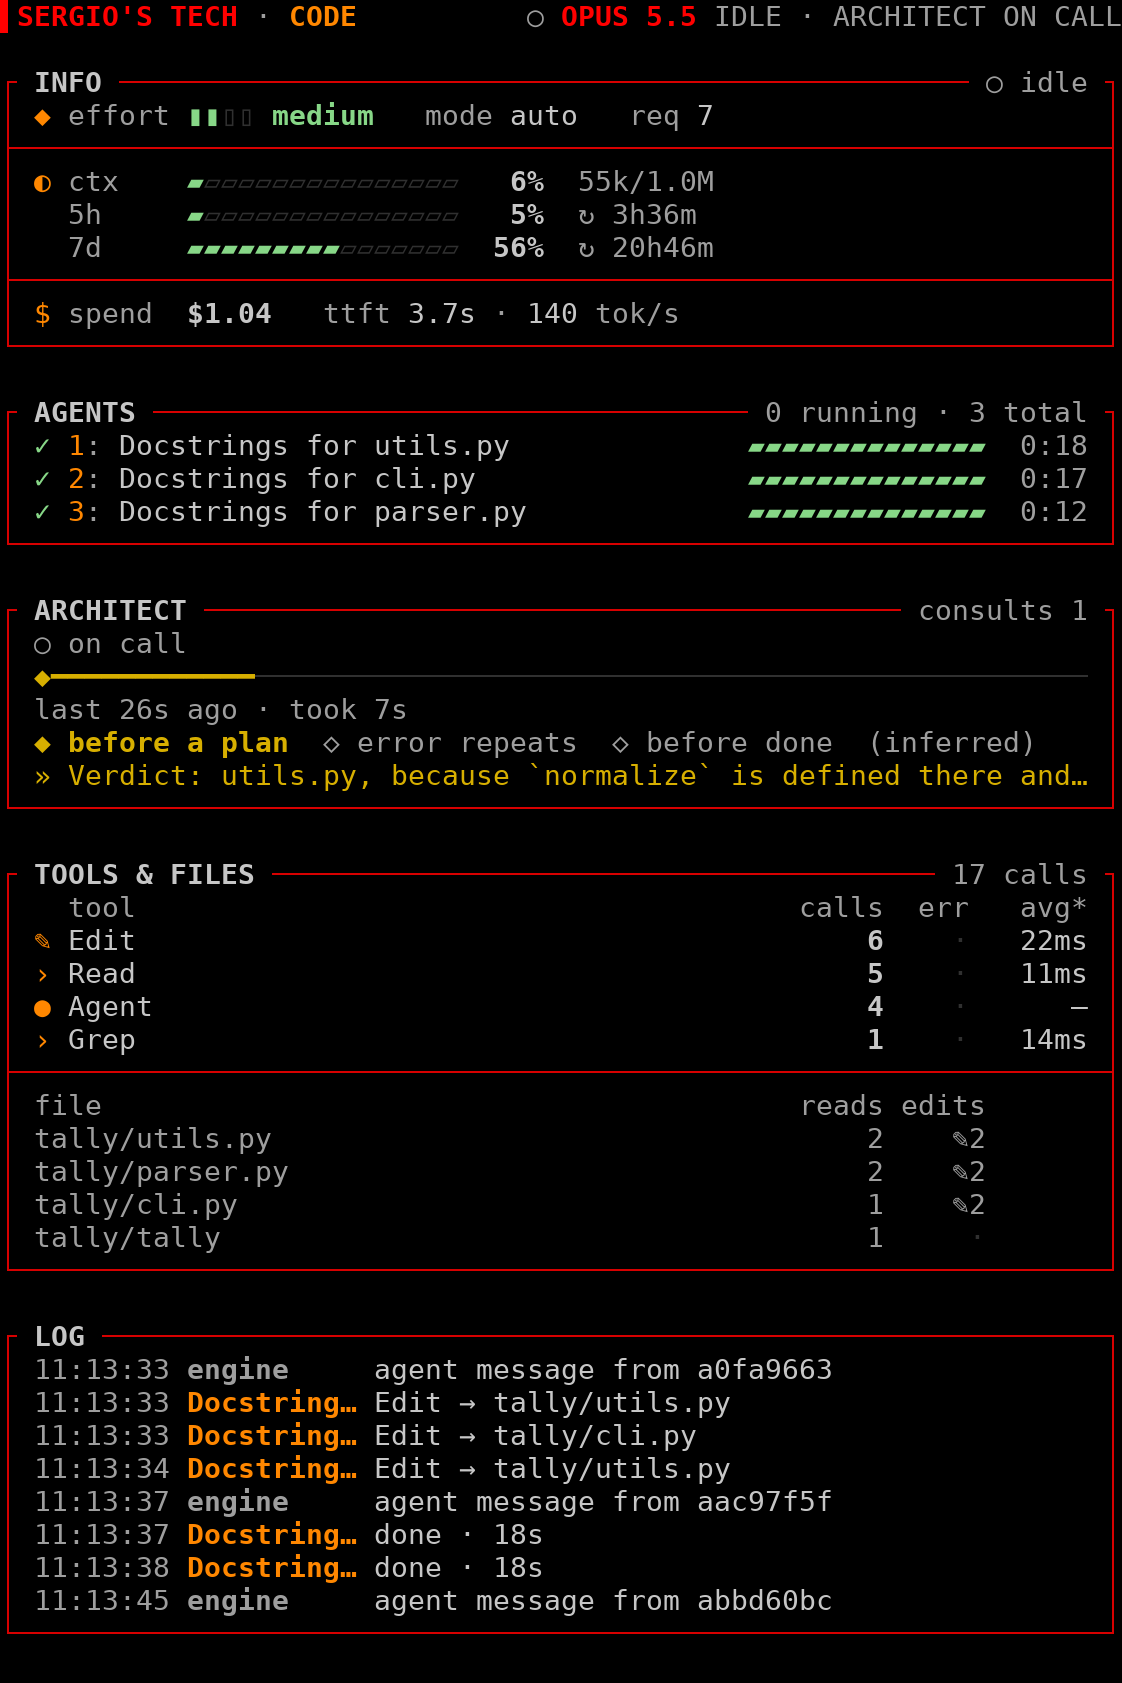
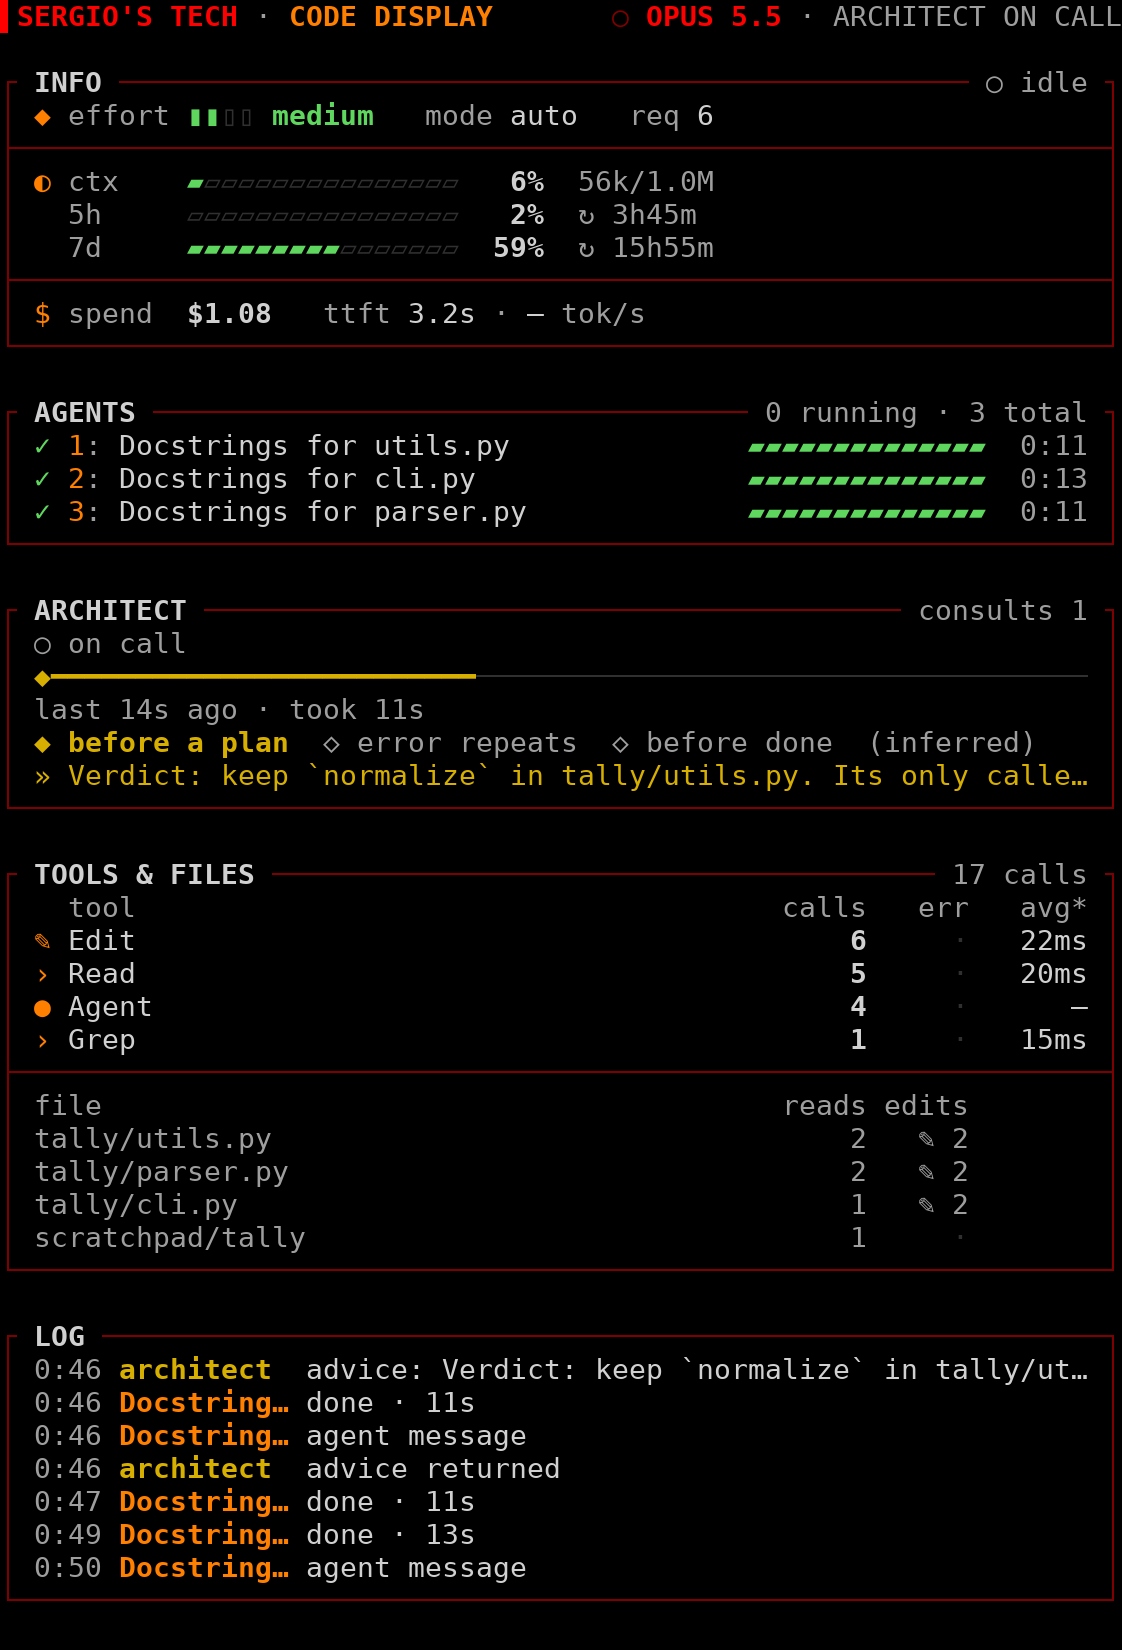
Capture the media again for the new name and header
The screenshots, the demo GIF and the social card showed the old header, ▌SERGIO'S TECH · CODE
with its WORKING / IDLE word, the consult's opening clock time and wall-clock LOG times. They are
captured again from a real run of the current plugin: the CODE DISPLAY brand, the header's dot and
model, consulting for 7s while the architect works, and LOG times from the session's start. The
README's descriptions of the pictures follow them.

diff --git a/README.md b/README.md
@@ -11,7 +11,7 @@ your machine.
 
 <div align="center">
 
-![The pane, docked at 66 columns, through a real run with three subagents and an architect: INFO switches to an orange working state, three agents appear in AGENTS with a bouncing bar while they run and a full green bar with a check once done, the header reads ARCHITECT ADVISING while the ARCHITECT panel draws the consult on its timeline, then ON CALL with the 7-second consult marked before a plan and its verdict that normalize belongs in utils.py, TOOLS & FILES counts the calls and the files each agent read and edited, and the LOG, running to the pane's bottom edge, fills with the prompt, spawns, the architect's advice, edits and completions while the spend climbs to $1.04](docs/media/demo.gif)
+![The pane, docked at 66 columns, through a real run with three subagents and an architect: under the SERGIO'S TECH · CODE DISPLAY header, INFO's frame turns green and reads working in orange, three agents appear in AGENTS with a bouncing bar while they run and a full green bar with a check once done, the header reads OPUS 5.5 · ARCHITECT ADVISING while the ARCHITECT panel counts how long the consult has run on its timeline, then ARCHITECT ON CALL with the 11-second consult marked before a plan and its verdict to keep normalize in tally/utils.py, TOOLS & FILES counts the calls and the files the agents read and edited, and the LOG, running to the pane's bottom edge, fills with the prompt at 0:24 into the session, spawns, edits, the architect's advice and completions while the spend climbs to $1.08](docs/media/demo.gif)
 
 </div>
 
@@ -56,13 +56,13 @@ releases. If something breaks after an update, see [Troubleshooting](#troublesho
 
 ## What you see
 
-![A fullscreen session 160 columns wide: on the left, the transcript reports three finished subagents that added docstrings and the architect's answer, lists each function's new docstring, notes that the 5 tests pass and ends with the architect's verdict that normalize belongs in utils.py; on the right, the docked pane shows the SERGIO'S TECH · CODE header with OPUS 5.5 IDLE · ARCHITECT ON CALL over INFO at $1.04 spent, AGENTS with three finished agents, ARCHITECT with one 7-second consult and its verdict, TOOLS & FILES with 17 calls, and the LOG running down to the pane's bottom edge, in one column](docs/media/docked-session.png)
+![A fullscreen session 160 columns wide: on the left, the transcript reports the three docstring subagents and the architect finishing, lists each function's new docstring, notes that python3 -m unittest passes the 5 tests and ends with the architect's verdict to keep normalize in utils.py; on the right, the docked pane shows the SERGIO'S TECH · CODE DISPLAY header with ○ OPUS 5.5 · ARCHITECT ON CALL over INFO at $1.08 spent, AGENTS with three finished agents, ARCHITECT with one 11-second consult and its verdict, TOOLS & FILES with 17 calls, and the LOG, timed from the session's start (0:46 to 0:50), running down to the pane's bottom edge, in one column](docs/media/docked-session.png)
 
 | Two columns, in a 120-column dock | One column, in the default 66-column dock |
 | --- | --- |
-| ![The wide layout: INFO and TOOLS & FILES stacked on the left, AGENTS with three finished agents and ARCHITECT on call after one 7-second consult on the right, and the LOG across the full width underneath down to the pane's bottom edge, listing the architect's advice, the edits to tally/parser.py, tally/cli.py and tally/utils.py and the agents finishing](docs/media/docked-wide.png) | ![The compact layout close up: INFO, AGENTS with three finished agents, ARCHITECT on call with its consult on the timeline and its verdict, TOOLS & FILES and LOG stacked in one column under the header, with green gauges at 6% context and 5% and 56% of the limits, the reads and edits of each file, and the LOG reaching the pane's bottom edge](docs/media/compact.png) |
+| ![The wide layout under the SERGIO'S TECH · CODE DISPLAY header: INFO and TOOLS & FILES with 19 calls stacked on the left, AGENTS with three finished agents and ARCHITECT on call after one 11-second consult, with the verdict to keep it in utils.py, on the right, and the LOG across the full width underneath down to the pane's bottom edge, from 0:30 to 0:50 into the session, listing a spawn, the edits to tally/parser.py, tally/utils.py and tally/cli.py, the architect's advice and the agents finishing](docs/media/docked-wide.png) | ![The compact layout close up: the SERGIO'S TECH · CODE DISPLAY header with ○ OPUS 5.5 · ARCHITECT ON CALL, then INFO, AGENTS with three finished agents, ARCHITECT on call with its consult on the timeline and its verdict, TOOLS & FILES and LOG stacked in one column, with gauges at 6% context and at 2% and 59% of the two limits, the reads and edits of each file, and the LOG, timed from the session's start, reaching the pane's bottom edge](docs/media/compact.png) |
 
-![A 100-column session with the summary inline above the prompt, in four rows: the model and its state, the effort, a context gauge, the 7-day and 5-hour limits and the session cost; then three finished subagents, each with a check, a full green bar and its clock](docs/media/inline-mini.png)
+![A 100-column session with the summary inline above the prompt, in four rows: the model with its IDLE state and ARCHITECT ON CALL, the effort, a context gauge at 6%, the 7-day limit and the session cost; then three finished subagents, each with a check, a full green bar and its clock](docs/media/inline-mini.png)
 
 The header is one unfilled row on black. `▌SERGIO'S TECH · CODE DISPLAY` sits on the left. On the right are
 the state dot and the main model in its family colour (Opus red, Sonnet orange, Haiku green, Fable
